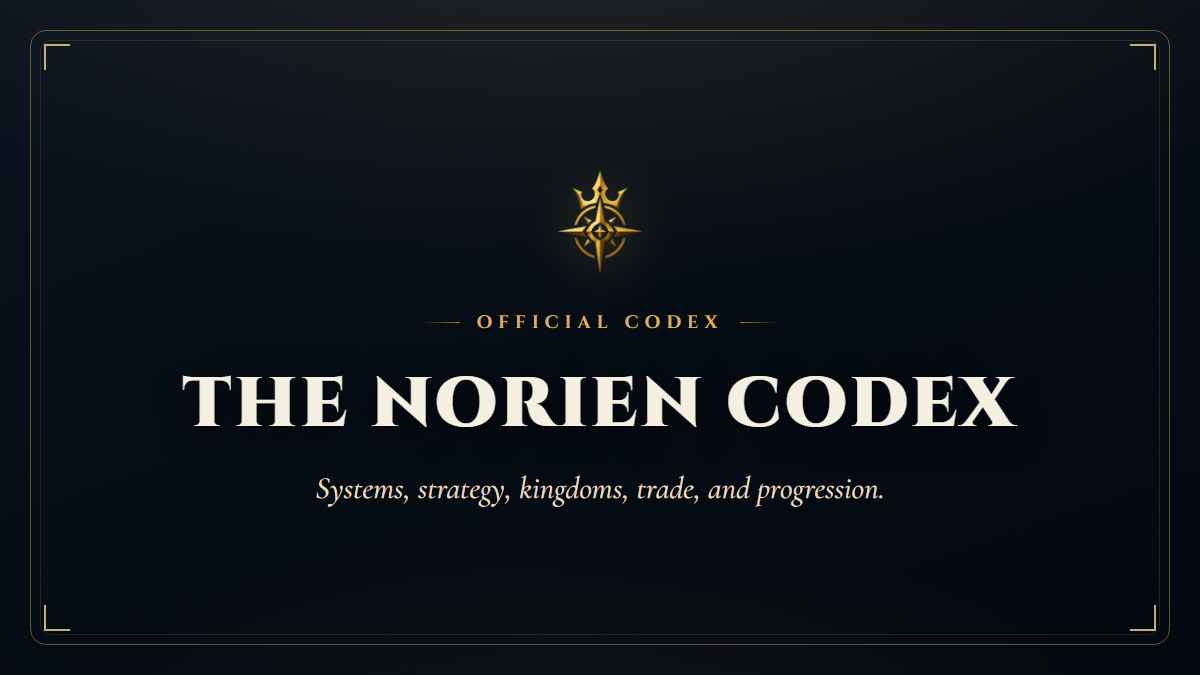
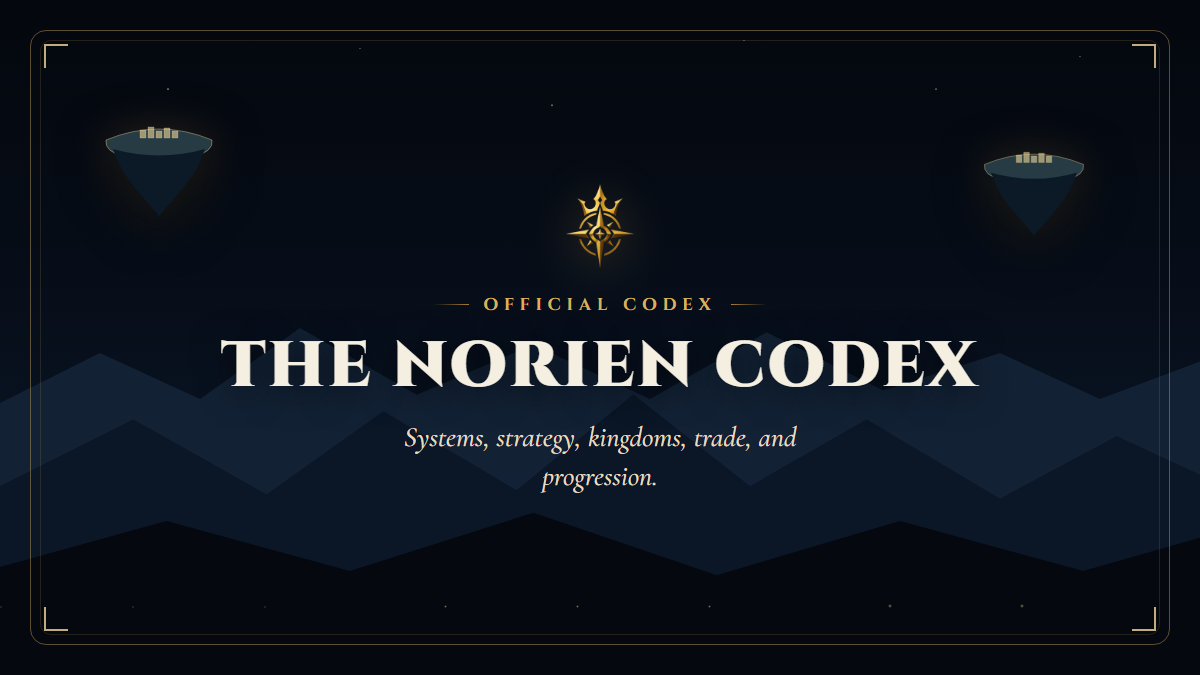
Replace Chronicles photography with original Norien world artwork
Bring the Chronicles, Codex, and social previews into the canonical
play.norien.live world (navy/gold, low-poly, floating isles). No photorealism,
no real-world landmarks.

- Chronicles chapters (×11): replace photographs with original low-poly Norien
  scenes — floating isles, deep-blue mountains, fog, gold highlights, with
  per-chapter motifs (citadel/town/castle isles, ship+sea, energy pathways,
  frost palette, tilted/broken isles, compass sigil). Alt text rewritten to the
  world. Assets moved .jpg → .png; refs updated in Chronicle.tsx.
- Chronicles hero: replace the real mountain photo with a Norien world scene.
- Codex + Chronicles: add a faint, fixed WorldBackdrop (~12% opacity) behind
  content so they feel like the same world; readability unchanged.
- OG images (norien/codex/chronicles): replace text-only cards with the world
  scene + gold frame + titles, matching play-og.
- New component components/world/WorldBackdrop.tsx (separate from PlayScene).

Untouched: play.norien.live, PlayScene, the landing page + its hero, the logo,
and all color tokens.

diff --git a/components/story/Chronicle.tsx b/components/story/Chronicle.tsx
@@ -37,8 +37,8 @@ const CHAPTERS: Chapter[] = [
     short: "The First Age",
     age: "The First Age",
     title: "Before the Crowns",
-    image: "/story/ch01-first-age.jpg",
-    alt: "An ancient, untouched world of mist-wrapped mountains, rivers, and deep forests.",
+    image: "/story/ch01-first-age.png",
+    alt: "Untouched Norien — pristine floating isles above layered deep-blue mountains under a navy sky.",
     meta: { era: "The First Age", region: "The Whole of Norien", status: "Mythic", importance: "Foundational" },
     quote: { text: "Before the first crown, there was only the land — and the land remembers.", source: "The Elder Verses" },
     paragraphs: [
@@ -54,8 +54,8 @@ const CHAPTERS: Chapter[] = [
     short: "The Great Sea",
     age: "The Great Sea",
     title: "The Heart of the World",
-    image: "/story/ch02-great-sea.jpg",
-    alt: "A lone sailing ship on a vast, mirror-still sea beneath a sky of stars.",
+    image: "/story/ch02-great-sea.png",
+    alt: "The Great Sea of Norien — a lone ship beneath a floating isle on a fog-veiled sea.",
     meta: { era: "The First Age", region: "The Great Sea", status: "Mythic", importance: "Major" },
     quote: { text: "Give a people the sea, and you give them the world.", source: "Saying of the Merchant Coast" },
     paragraphs: [
@@ -71,8 +71,8 @@ const CHAPTERS: Chapter[] = [
     short: "Merchant Kingdoms",
     age: "The Merchant Kingdoms",
     title: "The Price of Power",
-    image: "/story/ch03-merchant-kingdoms.jpg",
-    alt: "A bustling medieval trade town at golden hour, its lanes lined with merchant houses.",
+    image: "/story/ch03-merchant-kingdoms.png",
+    alt: "Merchant isles of Norien aglow with warm golden light above the deep-blue ranges.",
     meta: { era: "Age of Commerce", region: "Merchant Coast", status: "Historical", importance: "Major" },
     quote: { text: "A trusted name outlasts a full vault.", source: "Ledger of the Three Houses" },
     paragraphs: [
@@ -88,8 +88,8 @@ const CHAPTERS: Chapter[] = [
     short: "Old Empire",
     age: "The Old Empire",
     title: "One Crown to Bind Them",
-    image: "/story/ch04-old-empire.jpg",
-    alt: "A golden capital of monuments and temples crowning a sunlit hill.",
+    image: "/story/ch04-old-empire.png",
+    alt: "A golden citadel crowning a great floating island of the Old Empire of Norien.",
     meta: { era: "The Imperial Age", region: "Old Imperial Lands", status: "Historical", importance: "Defining" },
     quote: { text: "One road, one law, one crown — and the world grew quiet.", source: "Annals of the Imperial Court" },
     paragraphs: [
@@ -105,8 +105,8 @@ const CHAPTERS: Chapter[] = [
     short: "Fall of the Empire",
     age: "The Fall of the Empire",
     title: "The Long Shattering",
-    image: "/story/ch05-fall.jpg",
-    alt: "The ruins of a great imperial city, its arches broken and silent at dusk.",
+    image: "/story/ch05-fall.png",
+    alt: "Broken, tilting isles and dimmed gold over the mountains — the fall of the empire.",
     meta: { era: "The Imperial Age", region: "Old Imperial Lands", status: "Historical", importance: "Defining" },
     quote: { text: "Empires fall. Roads remain.", source: "Chronicle of the Fifth Age" },
     paragraphs: [
@@ -122,8 +122,8 @@ const CHAPTERS: Chapter[] = [
     short: "Age of Kingdoms",
     age: "The Age of Kingdoms",
     title: "A Hundred Thrones",
-    image: "/story/ch06-age-of-kingdoms.jpg",
-    alt: "A fortified medieval castle crowning a forested ridge beneath a brooding sky.",
+    image: "/story/ch06-age-of-kingdoms.png",
+    alt: "Many castle isles at varied heights across the kingdoms of Norien.",
     meta: { era: "Age of Kingdoms", region: "Central Realm", status: "Historical", importance: "Major" },
     quote: { text: "A hill, a wall, and the will to hold it — that is a kingdom.", source: "Sayings of the Stone Lords" },
     paragraphs: [
@@ -139,8 +139,8 @@ const CHAPTERS: Chapter[] = [
     short: "Northern Frontier",
     age: "The Northern Frontier",
     title: "Where the Maps End",
-    image: "/story/ch07-northern-frontier.jpg",
-    alt: "A remote stronghold in a frozen forest beneath snow-laden mountains.",
+    image: "/story/ch07-northern-frontier.png",
+    alt: "A frost-bound stronghold isle above the pale northern peaks of Norien.",
     meta: { era: "Age of Kingdoms", region: "Northern Frontier", status: "Contested", importance: "Moderate" },
     quote: { text: "The maps end, but the world does not.", source: "Marginalia of the Frostward Charts" },
     paragraphs: [
@@ -156,8 +156,8 @@ const CHAPTERS: Chapter[] = [
     short: "Great Trade Era",
     age: "The Great Trade Era",
     title: "Lords of the Routes",
-    image: "/story/ch08-great-trade-era.jpg",
-    alt: "A thriving coastal port town built into cliffs above a busy harbour.",
+    image: "/story/ch08-great-trade-era.png",
+    alt: "Trade isles of Norien linked by glowing golden energy pathways above the mountains.",
     meta: { era: "Age of Trade", region: "Merchant Coast & Great Sea", status: "Historical", importance: "Major" },
     quote: { text: "Hold the harbour, and you hold the realm.", source: "Articles of the Tide" },
     paragraphs: [
@@ -173,8 +173,8 @@ const CHAPTERS: Chapter[] = [
     short: "Age of Expansion",
     age: "The Age of Expansion",
     title: "Beyond the Border Stones",
-    image: "/story/ch09-expansion.jpg",
-    alt: "Sunlit wilderness of cliffs, forests, and open meadow at the frontier's edge.",
+    image: "/story/ch09-expansion.png",
+    alt: "New floating isles emerging from the fog at the frontier's edge of Norien.",
     meta: { era: "Age of Expansion", region: "The Frontiers", status: "Ongoing", importance: "Major" },
     quote: { text: "Every border stone was once the edge of the known.", source: "Journals of the Pathfinders" },
     paragraphs: [
@@ -190,8 +190,8 @@ const CHAPTERS: Chapter[] = [
     short: "Legends",
     age: "Legends of Norien",
     title: "The Names That Endure",
-    image: "/story/ch10-legends.jpg",
-    alt: "A mist-shrouded ancient path lit by a distant, otherworldly glow.",
+    image: "/story/ch10-legends.png",
+    alt: "A lone hero isle beneath a radiant golden compass sigil in the night sky of Norien.",
     meta: { era: "All Ages", region: "Across Norien", status: "Legend", importance: "Cultural" },
     quote: { text: "A life lived boldly enough becomes a story no age can bury.", source: "The Book of Names" },
     paragraphs: [
@@ -207,8 +207,8 @@ const CHAPTERS: Chapter[] = [
     short: "Present Age",
     age: "The Present Age",
     title: "The Unwritten Chapter",
-    image: "/story/ch11-present-age.jpg",
-    alt: "A vast living realm of spires, domes, and rooftops stretching to the horizon.",
+    image: "/story/ch11-present-age.png",
+    alt: "The living world of Norien — floating isles, deep-blue mountains, and golden energy pathways.",
     meta: { era: "The Present Age", region: "All of Norien", status: "Living", importance: "Unwritten" },
     quote: { text: "The next page is blank. Take up the pen.", source: "Inscription at the Gate of Now" },
     paragraphs: [
@@ -363,8 +363,8 @@ export default function Chronicle() {
       <header className="chron__hero">
         <Image
           className="chron__hero-img"
-          src="/story/hero.jpg"
-          alt="The world of Norien at golden dawn."
+          src="/story/hero.png"
+          alt="The world of Norien — floating isles above deep-blue mountains beneath a glowing golden horizon."
           fill
           priority
           sizes="100vw"

diff --git a/components/world/WorldBackdrop.tsx b/components/world/WorldBackdrop.tsx
@@ -1,0 +1,48 @@
+/**
+ * WorldBackdrop — a faint, fixed Norien-world presence placed behind text-heavy
+ * surfaces (the Codex and the Chronicles) so they feel like the same world as
+ * play.norien.live without harming readability. Low-opacity, static, decorative
+ * only (pointer-events: none, aria-hidden). Uses the canonical scene vocabulary
+ * (deep-blue mountains, floating isles, horizon glow, stars) and brand tokens.
+ *
+ * Intentionally separate from PlayScene — PlayScene is the frozen canon and is
+ * not imported or modified here.
+ */
+const FAR =
+  "M0 320V180l120-60 120 55 120-85 140 80 140-60 140 65 140-80 140 70 140-45 120 55 120-45 120 40V320Z";
+const MID =
+  "M0 360V230l160-80 160 90 140-100 160 95 140-115 140 110 140-80 160 95 140-75 140 65V360Z";
+
+function Isle({ w }: { w: number }) {
+  return (
+    <svg width={w} viewBox="0 0 300 240" className="wbd__isle-svg">
+      <path
+        className="wbd__top"
+        d="M44 78q106-44 212 0 4 24-40 34-66 16-132 0-44-10-40-34Z"
+      />
+      <path className="wbd__rock" d="M58 96q92 26 184 0-12 40-44 78-22 26-48 56-26-30-48-56-32-38-44-78Z" />
+      <path className="wbd__gold" d="M120 74V44h10v8h8v-8h10v8h8v-8h10v30z" />
+    </svg>
+  );
+}
+
+export default function WorldBackdrop() {
+  return (
+    <div className="wbd" aria-hidden="true">
+      <div className="wbd__glow" />
+      <div className="wbd__stars" />
+      <svg className="wbd__far" viewBox="0 0 1440 320" preserveAspectRatio="xMidYMax slice">
+        <path d={FAR} />
+      </svg>
+      <svg className="wbd__mid" viewBox="0 0 1440 360" preserveAspectRatio="xMidYMax slice">
+        <path d={MID} />
+      </svg>
+      <div className="wbd__isle wbd__isle--l">
+        <Isle w={150} />
+      </div>
+      <div className="wbd__isle wbd__isle--r">
+        <Isle w={128} />
+      </div>
+    </div>
+  );
+}

diff --git a/app/globals.css b/app/globals.css
@@ -1176,3 +1176,41 @@ body.story--locked { overflow: hidden; }
   .cscene__float svg { width: 152px; height: auto; }
   .coming__sub { max-width: 34ch; }
 }
+
+/* ============================================================
+   WORLD BACKDROP — faint Norien-world presence behind the Codex
+   + Chronicles (readability-first; decorative only). Separate
+   from PlayScene (which is untouched).
+   ============================================================ */
+.wbd {
+  position: fixed; inset: 0; z-index: 0; pointer-events: none; overflow: hidden;
+  opacity: .12;
+}
+.wbd__glow {
+  position: absolute; left: 50%; bottom: 4%; width: 130%; height: 60%;
+  transform: translateX(-50%);
+  background: radial-gradient(50% 60% at 50% 100%, rgba(217,177,95,.5), rgba(78,130,160,.12) 45%, transparent 72%);
+}
+.wbd__stars {
+  position: absolute; inset: 0 0 46% 0; background-repeat: no-repeat;
+  background-image:
+    radial-gradient(1.3px 1.3px at 16% 24%, rgba(255,255,255,.7), transparent),
+    radial-gradient(1px 1px at 34% 14%, rgba(255,255,255,.5), transparent),
+    radial-gradient(1.4px 1.4px at 52% 26%, rgba(240,215,154,.7), transparent),
+    radial-gradient(1px 1px at 70% 12%, rgba(255,255,255,.5), transparent),
+    radial-gradient(1.2px 1.2px at 86% 22%, rgba(240,215,154,.6), transparent);
+}
+.wbd__far { position: absolute; left: 0; bottom: 14%; width: 100%; height: 32%; display: block; }
+.wbd__far path { fill: #142336; }
+.wbd__mid { position: absolute; left: 0; bottom: 0; width: 100%; height: 40%; display: block; }
+.wbd__mid path { fill: #0b1626; }
+.wbd__isle { position: absolute; }
+.wbd__isle--l { left: 6%; top: 24%; }
+.wbd__isle--r { right: 7%; top: 30%; }
+.wbd__isle-svg { display: block; filter: drop-shadow(0 10px 22px rgba(0,0,0,.5)); }
+.wbd__top { fill: #263b43; stroke: rgba(240,215,154,.5); stroke-width: 1.6; }
+.wbd__rock { fill: #0c1a28; }
+.wbd__gold { fill: rgba(240,215,154,.6); }
+
+/* lift page content above the backdrop (nav/footer keep their own z-index) */
+.docs__shell, .story__shell { position: relative; z-index: 1; }

diff --git a/components/docs/DocsShell.tsx b/components/docs/DocsShell.tsx
@@ -3,6 +3,7 @@
 import { useEffect, useState } from "react";
 import Image from "next/image";
 import SiteFooter from "@/components/SiteFooter";
+import WorldBackdrop from "@/components/world/WorldBackdrop";
 
 const SECTIONS = [
   { id: "overview", label: "Overview" },
@@ -49,6 +50,7 @@ export default function DocsShell({ children }: { children: React.ReactNode }) {
 
   return (
     <div className="docs">
+      <WorldBackdrop />
       <header className="docs__nav">
         <div className="docs__nav-left">
           <button className="docs__menu-btn" aria-label="Toggle navigation" onClick={() => setOpen((o) => !o)}>

diff --git a/components/story/StoryShell.tsx b/components/story/StoryShell.tsx
@@ -3,6 +3,7 @@
 import { useEffect, useRef, useState } from "react";
 import Image from "next/image";
 import SiteFooter from "@/components/SiteFooter";
+import WorldBackdrop from "@/components/world/WorldBackdrop";
 
 /**
  * Navigation + chrome for The Chronicles of Norien.
@@ -105,6 +106,7 @@ export default function StoryShell({ children }: { children: React.ReactNode }) 
 
   return (
     <div className="story">
+      <WorldBackdrop />
       <div className="story__progress" aria-hidden="true">
         <span ref={barRef} />
       </div>